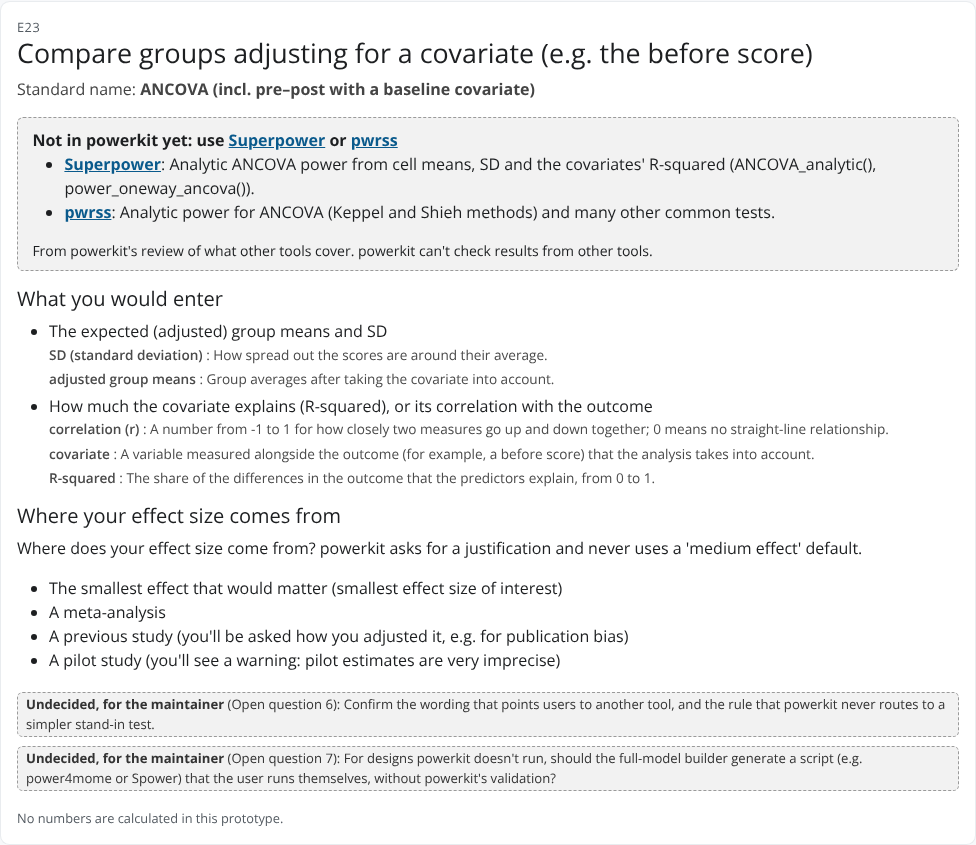
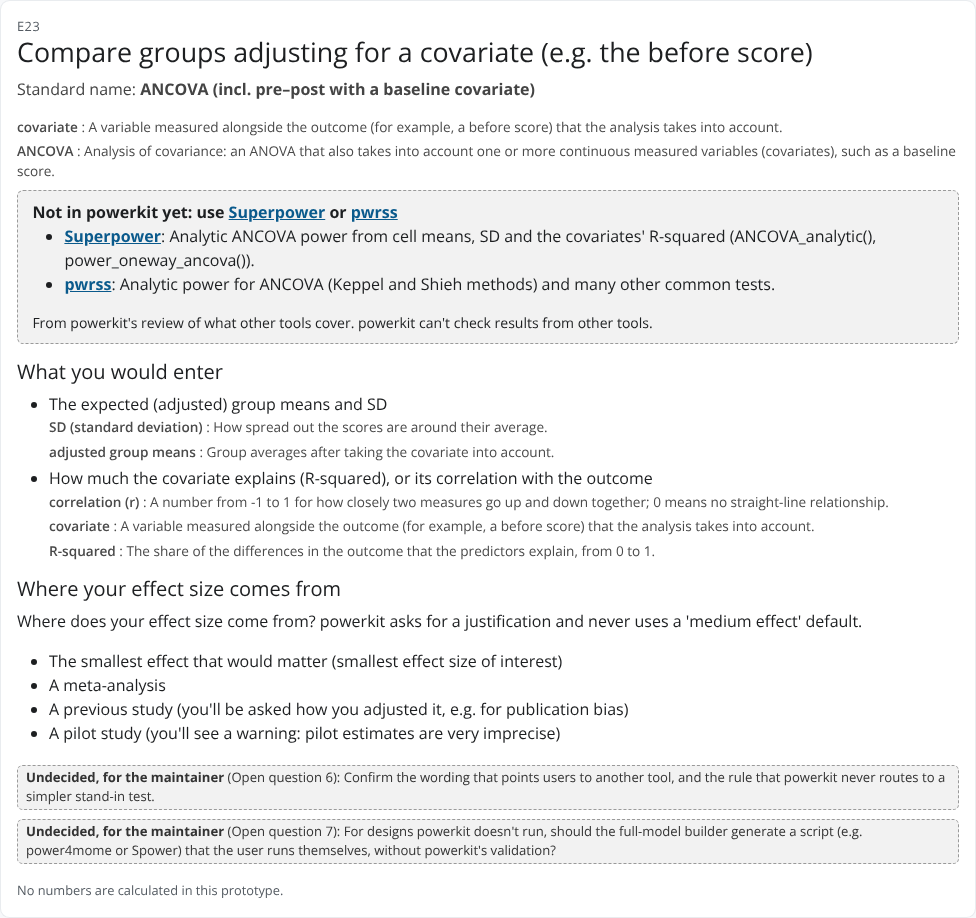
Sourced hints for standard names and backend lines; "Exact (analytic)" flagged; walkthroughs re-run
- 34 new glossary terms (omnibus, TOST, ANOVA, continuity correction,
  McNemar's test, Monte Carlo CI, ANOVA_exact(), ...), each written from
  an opened source and recorded in card-sources.md; shown once per card
  beside the standard name or backend line.
- Existing patterns fixed: "factor" no longer matches "Bayes factor";
  "repeated-measures" now matches.
- card-sources.md: E7/E8's "Exact (analytic)" marked contradicted
  (Superpower describes ANOVA_exact() as simulating one exact data set);
  card unchanged; judgement-calls.md entry A9.
- Walkthroughs re-run: 183 route runs reached their recorded end points;
  screenshots refreshed. axe-core: no violations.

Claude-Session: https://claude.ai/code/session_0186LoVeMuU2zgPinR2ZK71p

Changed region(s): [[0.0, 0.0308, 0.9836, 0.9846]]

diff --git a/docs/card-sources.md b/docs/card-sources.md
@@ -31,13 +31,14 @@ cites `coverage.md`, that page's own source tags ([Sp], [SP], [p4m], [IP],
 first-hand. Sources outside the repository are cited only if they were
 opened and read on 16 October 2026; nothing is cited from memory.
 
-**Counts:** contradicted: 1, candidate, not verified: 1, partly sourced: 20, sourced: 122, no claim: 1
+**Counts:** contradicted: 2, candidate, not verified: 1, partly sourced: 24, sourced: 151, no claim: 1
 
 ## Contradictions
 
 An opened source says something different from the card. The cards are unchanged.
 
 - **E45, Status:** No ready-made tool (Many measurements over time: segmented regression or interrupted time series) **Contradicts the card for a known breakpoint.** PITS (on CRAN since 30 June 2026) "Provides tools for estimating the statistical power of Interrupted Time Series (ITS) designs": `calculate_power()` simulates a segmented regression with a level change, a slope change and AR(1) autocorrelation (`rho` in [0, 1)), with the breakpoint fixed by `n_pre`. Not covered by PITS: an estimated breakpoint, and negative autocorrelation. PITS was not run or validated here.
+- **E7, E8, Closing question Q-test:** Exact (analytic) or simulation. The choice between the two methods is sourced. **The word "analytic" is not:** Superpower says `ANOVA_exact()` "Simulates an exact dataset (mu, sd, and r represent empirical, not population, mean and covariance matrix)" and runs a single ANOVA on it; Superpower uses "Analytic power calculation" for other functions (`power_oneway_between()` and others). The same label is the cards' "Default method: Exact (analytic)". Card unchanged.
 
 ## Claims and sources
 
@@ -143,7 +144,7 @@ An opened source says something different from the card. The cards are unchanged
 | All cards with a justification prompt | Where your effect size comes from | A pilot study: you'll see a warning, because pilot estimates are very imprecise | docs/decisions.md (pilot_study gives a warning). Candidate: Albers and Lakens (2018) | Reference given in Superpower's `mu_from_ES` help, "References" | The warning itself is recorded. The reason (pilot estimates are imprecise) is likely supported by Albers and Lakens (2018), whose title says power analyses based on pilot data are biased, but the paper wasn't opened. | candidate, not verified |
 | Not-in-powerkit cards | Status | No ready-made tool: options are a custom simulation in R (e.g. Spower) or advice from a statistician | coverage.md (Spower as a general engine); maintainer's wording | — | — | sourced |
 | E2 | Closing question Q-test | Student's or Welch's t-test. | decision-tree.md, table 2.2 (Q-test; decision D7) | — | — | sourced |
-| E7, E8 | Closing question Q-test | Exact (analytic) or simulation. | decision-tree.md, table 2.2 (Q-test); engine (options.method) | — | — | sourced |
+| E7, E8 | Closing question Q-test | Exact (analytic) or simulation. | decision-tree.md, table 2.2 (Q-test); engine (options.method); Superpower 0.2.4.1 help `ANOVA_exact` and vignette "Introduction to Superpower" | `ANOVA_exact` "Description"; vignette, "The ANOVA_exact function" | The choice between the two methods is sourced. **The word "analytic" is not:** Superpower says `ANOVA_exact()` "Simulates an exact dataset (mu, sd, and r represent empirical, not population, mean and covariance matrix)" and runs a single ANOVA on it; Superpower uses "Analytic power calculation" for other functions (`power_oneway_between()` and others). The same label is the cards' "Default method: Exact (analytic)". Card unchanged. | contradicted |
 | Cards with closing questions | Closing question Q-goal | The smallest detectable effect isn't available for this design yet. Observed power (from the study's own result) is not offered. | decision-tree.md, table 2.2 (Q-goal row); engine (sensitivity for the 2 x 2 designs) | — | — | sourced |
 | Cards with closing questions | Closing question Q-goal | All three are available for this design. Observed power (from the study's own result) is not offered. | decision-tree.md, table 2.2 (Q-goal row); engine (sensitivity for the 2 x 2 designs) | — | — | sourced |
 | Cards using the term | Hint: Cohen's d | A difference between two averages, measured in standard deviations: 0.5 means the averages are half a standard deviation apart. | pwr; psych (see Sources opened) | `pwr.t.test`, argument `d`; `cohen.d`, "Details" | "difference between the means divided by the pooled standard deviation". The 0.5 example follows from this. | sourced |
@@ -188,12 +189,47 @@ An opened source says something different from the card. The cards are unchanged
 | Cards using the term | Hint: confidence interval (CI) | A range of plausible values for an effect, estimated from the data. | UCLA t-test output (see Sources opened) | Item "k. 95% Confidence Interval of the Difference" | "specifies a range of values within which the unknown population parameter, in this case the mean, may lie". | sourced |
 | Cards using the term | Hint: model parameters | The numbers that define a model, such as the strength of each path. | UCLA CFA in R (see Sources opened) | The factor analysis model, before "Known values, parameters, and degrees of freedom" | "each parameter, defined as a term in the model to be estimated", including the paths. | sourced |
 | Cards using the term | Hint: prior | The range of effect sizes you consider plausible before seeing the data, written as a distribution. | Hmisc gbayes (see Sources opened) | "Description" (`gbayes2`) and argument `prior` | Power "averaged over a prior distribution for the unknown treatment effect". The words "plausible" and "before seeing the data" aren't in the source (it mentions a prior "obtained using pilot data"). **Detail:** the page separates a prior used only to average power from one used to form the test or credible interval; the hint doesn't say which. | partly sourced |
+| Cards using the term | Hint: omnibus test | A single overall test of whether there are any differences among all the groups or conditions at once; it doesn't say which ones differ. | UCLA OARC: Introduction to Mediation Models with the PROCESS Macro in SPSS; semTools 0.5.9 tukeySEM help — https://stats.oarc.ucla.edu/other/mult-pkg/seminars/spss-process/; semTools ?tukeySEM | Part 5 of the output (multi-category X); tukeySEM Details | UCLA supports 'overall test'; semTools supports 'across three or more groups' and that which means differ is a separate follow-up question. | sourced |
+| Cards using the term | Hint: ANOVA | Analysis of variance: a test of whether the average outcome differs across the levels of one or more factors. | UCLA OARC: What statistical analysis should I use? (SPSS) — https://stats.oarc.ucla.edu/spss/whatstat/what-statistical-analysis-should-i-usestatistical-analyses-using-spss/#1anova | One-way ANOVA; Factorial ANOVA | Factorial ANOVA ('two or more categorical independent variables') supports 'one or more factors'. Pattern does not fire inside ANOVA_exact()/ANOVA_power() (underscore is a word character). | sourced |
+| Cards using the term | Hint: main effect | The effect of one factor averaged over the levels of the other factor or factors. | Superpower 0.2.4.1 vignette: More ANOVA designs (more_anova_designs) — https://cran.r-project.org/web/packages/Superpower/vignettes/more_anova_designs.html | 2x2 interaction section |  | sourced |
+| Cards using the term | Hint: between-participants and within-participants | Between-participants means different people take part at each level of a factor; within-participants means the same people take part at every level. | Superpower 0.2.4.1 vignettes: intro_to_superpower; more_anova_designs — https://cran.r-project.org/web/packages/Superpower/vignettes/intro_to_superpower.html; https://cran.r-project.org/web/packages/Superpower/vignettes/more_anova_designs.html | intro: ANOVA_power example (2*2 mixed design); more: Power in Repeated Measures ANOVA | '40 per between condition, 80 in total' shows different people per level. Same idea as the existing 'between factor and within factor' hint, but that pattern doesn't match the hyphenated card wording. | sourced |
+| Cards using the term | Hint: mixed design | A design with at least one factor that compares different people (between-participants) and at least one that measures the same people repeatedly … | Superpower 0.2.4.1 vignette: intro_to_superpower — https://cran.r-project.org/web/packages/Superpower/vignettes/intro_to_superpower.html | The ANOVA_power function (example) | Pattern highlights only 'mixed' so it doesn't overlap the ANOVA hint. Note 'mixed' on E41-type cards ('mixed models') would need a different hint; the lookahead keeps it to 'mixed ANOVA'. | sourced |
+| Cards using the term | Hint: ANCOVA | Analysis of covariance: an ANOVA that also takes into account one or more continuous measured variables (covariates), such as a baseline score. | UCLA OARC: What statistical analysis should I use? (SPSS) — https://stats.oarc.ucla.edu/spss/whatstat/what-statistical-analysis-should-i-usestatistical-analyses-using-spss/ | Analysis of covariance | 'such as a baseline score' is the card's own example (E23 'pre-post with a baseline covariate'), not the source's; the UCLA example adds a reading score. | sourced |
+| Cards using the term | Hint: planned contrast | One specific comparison of group averages (for example, the average of groups 1 and 2 against group 3), planned in advance rather than chosen after … | UCLA OARC: Everything you always wanted to know about contrasts (Stata FAQ); Superpower 0.2.4.1 vignette emmeans_power — https://stats.oarc.ucla.edu/stata/faq/everything-you-always-wanted-to-know-about-contrasts-but-were-afraid-to-ask/; https://cran.r-project.org/web/packages/Superpower/vignettes/emmeans_power.html | What is a contrast?; emmeans_power introduction | What a contrast is: fully sourced. 'Planned in advance rather than after seeing results' rests only on Superpower's contrast between 'planned contrasts or post-hoc comparisons'; no opened source defines 'planned' explicitly. Could drop that clause. | partly sourced |
+| Cards using the term | Hint: z test (two proportions) | A test of whether the share of 'yes' differs between two groups, based on the normal (bell-curve) approximation to the counts. | rstatix 1.1.0 reference manual (prop_test); EnvStats propTestPower help — https://cran.r-project.org/web/packages/rstatix/refman/rstatix.html (prop_test); EnvStats ?propTestPower | prop_test Functions; propTestPower Details (Two-Sample Case) | Links the card's 'z test' to the prop.test() that Spower's p_prop.test() calls. 'bell-curve' is a plain-English gloss of 'normal'. | sourced |
+| Cards using the term | Hint: continuity correction | A slight adjustment to the normal approximation for counts that moves the observed difference toward zero before testing. | DescTools 0.99.60 reference manual (BinomDiffCI); Spower 0.6.4 vignette gpower_examples; R stats 4.5.3 prop.test help — https://cran.r-project.org/web/packages/DescTools/refman/DescTools.html (BinomDiffCI); https://cran.r-project.org/web/packages/Spower/vignettes/gpower_examples.html; stats ?prop.test | BinomDiffCI Details; McNemar example; prop.test Details | Card wording is right: Spower's p_prop.test() and stats::prop.test() default to correct = TRUE, so 'no continuity correction' is a departure; it is already recorded in docs/conventions.md (Departure 5). The Spower vignette adds 'though in general this is not recommended in practice' - worth knowing since the card turns it off. If 'gives a little more power' reads as advice, drop that clause. | sourced |
+| Cards using the term | Hint: chi-square test of independence | A test of whether two categorical variables (for example, group and a yes/no answer) are related, using a table of counts. | UCLA OARC: What statistical analysis should I use? (SPSS); R stats 4.5.3 chisq.test help — https://stats.oarc.ucla.edu/spss/whatstat/what-statistical-analysis-should-i-usestatistical-analyses-using-spss/#chisq; stats ?chisq.test | Chi-square test; chisq.test Details | chisq.test: 'Pearson's chi-squared test ... in a 2-dimensional contingency table' supports 'table of counts'. | sourced |
+| Cards using the term | Hint: McNemar's test | A test of whether the share of 'yes' answers differs between two yes/no measurements on the same people (or on matched pairs). | rstatix 1.1.0 reference manual (mcnemar_test); UCLA OARC: What statistical analysis should I use? (SPSS) — https://cran.r-project.org/web/packages/rstatix/refman/rstatix.html (mcnemar_test); https://stats.oarc.ucla.edu/spss/whatstat/what-statistical-analysis-should-i-usestatistical-analyses-using-spss/#mcnemar | mcnemar_test Functions; McNemar test |  | sourced |
+| Cards using the term | Hint: Cochran's Q | An extension of McNemar's test to three or more yes/no measurements on the same people. | rstatix 1.1.0 reference manual (cochran_qtest) — https://cran.r-project.org/web/packages/rstatix/refman/rstatix.html (cochran_qtest) | cochran_qtest Description |  | sourced |
+| Cards using the term | Hint: logistic regression | A regression for a yes/no outcome: it models the log of the odds of 'yes' from the predictors. | UCLA OARC: Logit Regression \| R Data Analysis Examples — https://stats.oarc.ucla.edu/r/dae/logit-regression/ | Introduction | Relies on the existing 'odds ratio' hint for what odds are. Also matches 'factorial logistic regression' (E47). | sourced |
+| Cards using the term | Hint: Poisson or negative binomial | Regressions for count outcomes (how many times something happens); Poisson assumes the counts vary as much as their average, while negative binomial … | UCLA OARC: Poisson Regression and Negative Binomial Regression \| R Data Analysis Examples — https://stats.oarc.ucla.edu/r/dae/poisson-regression/; https://stats.oarc.ucla.edu/r/dae/negative-binomial-regression/ | Introductions; Negative binomial regression (analysis methods list) | u_pois.txt line 128 supports 'the variance equals the mean'; 'vary as much as their average' is the plain-English wording of that. | sourced |
+| Cards using the term | Hint: ordinal outcome | An outcome whose categories have a natural order (for example, never, sometimes, often) but where the steps between neighbouring categories need not … | UCLA OARC: Ordinal Logistic Regression \| R Data Analysis Examples; UCLA OARC: What statistical analysis should I use? (SPSS) — https://stats.oarc.ucla.edu/r/dae/ordinal-logistic-regression/; https://stats.oarc.ucla.edu/spss/whatstat/what-statistical-analysis-should-i-usestatistical-analyses-using-spss/#ologit | Examples of ordinal logistic regression; Ordered logistic regression | The example categories are illustrative (the source uses soda sizes, whose names hit the banned-words test). Also matches 'ordinal' in other card text, which carries the same meaning. | sourced |
+| Cards using the term | Hint: PROCESS model number | PROCESS is Andrew Hayes's tool for mediation and moderation analysis; each model number picks one set arrangement of predictor, mediators and … | UCLA OARC: Introduction to Mediation Models with the PROCESS Macro in SPSS — https://stats.oarc.ucla.edu/other/mult-pkg/seminars/spss-process/ | Simple mediation model; Parallel mediation; Optional subcommands | The seminar names Hayes (2022), 3rd edition, as the source of the numbering. Pattern covers 'PROCESS model 4' and 'PROCESS models 8, 58, 59'. | sourced |
+| Cards using the term | Hint: index of moderated mediation | How much the indirect effect (X to mediator to outcome) changes when the moderator goes up by one unit. | manymome 0.3.7 help: index_of_mome (used by power4mome 0.2.1 test_index_of_mome()) — manymome ?index_of_mome | Details | power4mome's test_index_of_mome() passes the fit to manymome::index_of_mome() (power4mome help, 'fit' argument). manymome: it applies to models with one (and only one) moderated path, which fits E13/E14 (models 7 and 14). | sourced |
+| Cards using the term | Hint: Monte Carlo CI | A confidence interval built by simulating many sets of the model's estimates from their estimated uncertainty, computing the effect for each set, … | manymome 0.3.7 vignette: Generate Monte Carlo Estimates (do_mc) — https://cran.r-project.org/web/packages/manymome/vignettes/do_mc.html | 2 How It Works | power4mome's default ci_type is 'mc' and test_index_of_mome(mc_ci = TRUE) forms Monte Carlo CIs (power4mome help). Pattern matches only 'Monte Carlo' when followed by 'CI', so the existing CI hint still covers 'CI' and the existing 'Monte Carlo draws' pattern is untouched. | sourced |
+| Cards using the term | Hint: ANOVA_exact() (exact) | Superpower's quick method: it builds one data set whose means, standard deviations and correlations exactly match the ones you enter, analyses it … | Superpower 0.2.4.1 help ANOVA_exact; vignette intro_to_superpower — Superpower ?ANOVA_exact; https://cran.r-project.org/web/packages/Superpower/vignettes/intro_to_superpower.html | ANOVA_exact Description/Value; vignette 'The ANOVA_exact function' | Superpower: `ANOVA_exact()` "Simulates an exact dataset (mu, sd, and r represent empirical, not population, mean and covariance matrix)" and analyses it once; the vignette: it "simulates one dataset that exactly matches the desired properties". The hint follows this. **See the E7 and E8 rows:** the cards call this method "Exact (analytic)"; Superpower keeps "analytic" for other functions (for example `power_oneway_between()`, "Analytic power calculation"). | sourced |
+| Cards using the term | Hint: simulation (ANOVA_power()) | Estimating power by generating many random data sets from the design and counting how often the test comes out significant. | Superpower 0.2.4.1 vignette intro_to_superpower; help ANOVA_power — https://cran.r-project.org/web/packages/Superpower/vignettes/intro_to_superpower.html; Superpower ?ANOVA_power | Introduction; The ANOVA_power function | 'counting how often the test is significant' - ANOVA_power returns power as the share of significant simulated results; the vignette's quoted lines say 'simulates data nsims times using a specified alpha level'. Pattern is broad: it would also fire on any future backend line with 'simulation'; the meaning is the same. | sourced |
+| Cards using the term | Hint: brackets N (power_interaction_r2()) | InteractionPoweR's power_interaction_r2() is a quick formula-based power calculation; powerkit uses it only to narrow down the range of sample sizes … | InteractionPoweR 0.2.4 help: power_interaction_r2, power_interaction; powerkit engine/R/backend-interactionpower.R — InteractionPoweR ?power_interaction_r2; ?power_interaction; engine/R/backend-interactionpower.R line 7 | Titles/Descriptions | That r2 is analytic and power_interaction() simulates: sourced from the package. That powerkit uses r2 only to bracket N is powerkit's own design (engine comment, search_n.R), not a package statement. Note the help says power_interaction_r2() is valid only for continuous, normally distributed variables, so it shouldn't bracket E15 (binary X/W via k.x1 = 2) if that card ever reuses this route. | partly sourced |
+| Cards using the term | Hint: k.x1 / k.x2 = 2 | Settings that tell InteractionPoweR's simulation to give x1 or x2 only two possible values, so it becomes a yes/no variable. | InteractionPoweR 0.2.4 help: power_interaction, norm2ordinal — InteractionPoweR ?power_interaction; ?norm2ordinal | Arguments | norm2ordinal: 'Transforms a vector with a normal distribution to a binomial distribution with two values' - i.e. the variable is simulated as continuous and then cut to two values. | sourced |
+| Cards using the term | Hint: rbinary_rs() (x_fun) | Tells power4mome to generate X as a yes/no variable (0 or 1, with a chosen chance of 1) instead of from a normal distribution; the 0/1 values are … | power4mome 0.2.1 help: rbinary_rs, power4test — power4mome ?rbinary_rs; ?power4test (x_fun) | rbinary_rs Description/Details; power4test Arguments | Flag: the generated X has two values but is rescaled (pmean/psd), not left as 0/1, so path sizes for X are per rescaled unit; a card or form that says X is coded 0/1 would not match this. | sourced |
+| Cards using the term | Hint: multilevel or cluster design | A design in which people are grouped (for example, pupils within classes, or patients within doctors), so people in the same group tend to be more … | UCLA OARC: Introduction to Linear Mixed Models — https://stats.oarc.ucla.edu/other/mult-pkg/introduction-to-linear-mixed-models/ | Introduction | Page: 'Linear mixed models (also called multilevel models)'. Also matches 'multilevel correlation' in E41, where the grouping is repeated occasions within people; the hint still reads correctly there. | sourced |
+| Cards using the term | Hint: growth curves | Models of how each person's scores change over repeated occasions (their trajectory, for example a straight line up or down), and of the average … | UCLA OARC: Latent Growth Models (LGM) and Measurement Invariance with R in lavaan; lavaan 0.7.2 help growth — https://stats.oarc.ucla.edu/r/seminars/lgm/; lavaan ?growth | Introduction; The latent growth model (LGM) | Line 83: 'These trajectories in most cases are linear, but can encompass other trajectories such as a quadratic slope'. lavaan's growth() is titled 'Fit Growth Curve Models'. | sourced |
+| Cards using the term | Hint: cross-lagged panel | A model for two measures (X and Y) recorded at several time points that estimates how each one predicts the other at the next time point, alongside … | semPower 2.2.0 reference manual: semPower.powerCLPM — https://cran.r-project.org/web/packages/semPower/refman/semPower.html (semPower.powerCLPM) | semPower.powerCLPM Details | The card's E35 says 'three or more occasions'; semPower's CLPM allows two or more waves - not a conflict, just the card's routing scope. | sourced |
+| Cards using the term | Hint: experience sampling | An intensive longitudinal design in which participants answer a questionnaire each time they are prompted (a 'beep'), several times within a day. | esmtools reference manual (CRAN) — https://cran.r-project.org/web/packages/esmtools/refman/esmtools.html | esmtools data and function documentation | Pieced together from argument and data descriptions (the ESM questionnaire, the beep sent to the participant, the beep number within a day), not from a definition. esmtools 1.0.1 (CRAN page). | partly sourced |
+| Cards using the term | Hint: CFA | Confirmatory factor analysis: a model in which answers to many questionnaire items are explained by fewer underlying, unobserved traits (factors) … | UCLA OARC: Confirmatory Factor Analysis (CFA) in R with lavaan — https://stats.oarc.ucla.edu/r/seminars/rcfa/ | Introduction / The factor analysis model | Line 206 (one-factor model 'will assume that the covariance among items is due to a single common factor') supports 'that you specify'. Note 'factor' here is a latent trait, not the existing glossary's experimental factor; the existing \bfactors?\b pattern doesn't fire on 'CFA'. | sourced |
+| Cards using the term | Hint: SEM and model fit | Structural equation modelling: a family of models that combines regressions among variables with unobserved (latent) variables measured by several … | UCLA OARC: Introduction to Structural Equation Modeling (SEM) in R with lavaan — https://stats.oarc.ucla.edu/r/seminars/rsem/ | Introduction; Model Fit Statistics | Regex alternation tries 'SEM model fit' first so the whole phrase is one highlight on E37. | sourced |
+| Cards using the term | Hint: measurement invariance | Whether a questionnaire measures the same underlying trait in the same way in different groups (or on different occasions), checked by requiring … | UCLA OARC: How can I check measurement invariance using the sem command? (Stata FAQ); semPower 2.2.0 reference manual: semPower.powerMI — https://stats.oarc.ucla.edu/stata/faq/how-can-i-check-measurement-invariance-using-the-sem-command-stata-12/; https://cran.r-project.org/web/packages/semPower/refman/semPower.html (semPower.powerMI) | Introduction; semPower.powerMI Details | 'or on different occasions': semPower.powerLI covers longitudinal measurement invariance (line 3712). semPower: 'metric': all loadings are restricted to equality. | sourced |
+| Cards using the term | Hint: equivalence test (TOST) | A test that aims to show there is no meaningful effect: two one-sided tests (TOST) check that the effect lies above the lower equivalence bound and … | TOSTER 0.8.6 vignettes: An Introduction to t_TOST; Introduction to Equivalence Testing with TOSTER — https://cran.r-project.org/web/packages/TOSTER/vignettes/IntroTOSTt.html; https://cran.r-project.org/web/packages/TOSTER/vignettes/IntroductionToTOSTER.html | Introduction to TOST; TOST procedure | Uses the existing 'equivalence bounds' hint for the bounds; patterns don't overlap. | sourced |
+| Cards using the term | Hint: minimum-effect test | The reverse of an equivalence test: it aims to show that an effect goes beyond a chosen minimal threshold. | TOSTER 0.8.6 vignette: An Introduction to t_TOST — https://cran.r-project.org/web/packages/TOSTER/vignettes/IntroTOSTt.html | Beyond Equivalence: Minimal Effects Testing | NAME MISMATCH (minor): the card says 'minimum-effect test'; TOSTER (the established tool) calls it 'minimal effect test(ing)' (MET, hypothesis = "MET"). Consider the card using TOSTER's term, or both. | sourced |
+| Cards using the term | Hint: precision planning | Choosing the sample size so that the confidence interval around the estimate is expected to come out no wider than a target width. | Spower 0.6.4 vignette: Logical vectors, Bayesian power analyses and ROPEs (SpowerIntro_logicals) — https://cran.r-project.org/web/packages/Spower/vignettes/SpowerIntro_logicals.html | Precision criterion | Spower shows a CI-width criterion joined with significance; it doesn't use the phrase 'precision planning' or describe width-only planning. 'expected to' (on average/with given assurance) is my gloss; the source's example targets power to get a narrow CI. | partly sourced |
+| Cards using the term | Hint: Bayes factor | A ratio that says how strongly the data support one hypothesis compared with a competing one (often 'no effect'), used instead of a p-value. | Spower 0.6.4 vignette: Logical vectors, Bayesian power analyses and ROPEs (SpowerIntro_logicals) — https://cran.r-project.org/web/packages/Spower/vignettes/SpowerIntro_logicals.html | Bayes Factors | COLLISION: the existing 'factor and levels' pattern \bfactors?\b also matches 'factor' in 'Bayes factor' (E-bayes) and would gloss it as 'something you vary'. Suggest the existing pattern become (?<!Bayes )\bfactors?\b. | sourced |
 
 ## Still to check
 
 Claims that are not fully sourced, for the maintainer to source, reword or remove:
 
 - **E45, Status** (contradicted): No ready-made tool (Many measurements over time: segmented regression or interrupted time series)
+- **E7, E8, Closing question Q-test** (contradicted): Exact (analytic) or simulation.
 - **All cards with a justification prompt, Where your effect size comes from** (candidate, not verified): A pilot study: you'll see a warning, because pilot estimates are very imprecise
 - **E44, Card text** (partly sourced): powerkit doesn't cover data from pairs of people whose scores are related (dyadic data), such as couples or a parent and child. Treating the two …
 - **E45, Card point** (partly sourced): With a breakpoint that is estimated from the data, a custom simulation is needed.
@@ -215,6 +251,10 @@ Claims that are not fully sourced, for the maintainer to source, reword or remov
 - **Cards using the term, Hint: level and slope** (partly sourced): The level is how high the trend is; the slope is how fast it rises or falls.
 - **Cards using the term, Hint: autocorrelation** (partly sourced): How much each measurement depends on the ones just before it.
 - **Cards using the term, Hint: prior** (partly sourced): The range of effect sizes you consider plausible before seeing the data, written as a distribution.
+- **Cards using the term, Hint: planned contrast** (partly sourced): One specific comparison of group averages (for example, the average of groups 1 and 2 against group 3), planned in advance rather than chosen after …
+- **Cards using the term, Hint: brackets N (power_interaction_r2())** (partly sourced): InteractionPoweR's power_interaction_r2() is a quick formula-based power calculation; powerkit uses it only to narrow down the range of sample sizes …
+- **Cards using the term, Hint: experience sampling** (partly sourced): An intensive longitudinal design in which participants answer a questionnaire each time they are prompted (a 'beep'), several times within a day.
+- **Cards using the term, Hint: precision planning** (partly sourced): Choosing the sample size so that the confidence interval around the estimate is expected to come out no wider than a target width.
 
 ## Sources opened
 

diff --git a/docs/glossary.md b/docs/glossary.md
@@ -27,9 +27,9 @@ only partly supported, and the details are listed there.
 | SD units | Differences expressed in standard deviations rather than in the outcome's own units (raw). | E7 |
 | Student's or Welch's test | Two versions of the t-test: Student's assumes the two groups' scores are equally spread out; Welch's doesn't. | E2 |
 | correlation (r) | A number from -1 to 1 for how closely two measures go up and down together; 0 means no straight-line relationship. | E4, E8, E9, E11, E15, E18, E20, E21, E23, E31, E41 |
-| repeated measurements | The same people measured more than once (for example, before and after, or in each condition); their scores on different occasions usually go together. | E8, E18, E20 |
+| repeated measurements | The same people measured more than once (for example, before and after, or in each condition); their scores on different occasions usually go together. | E8, E18, E20, E41 |
 | cell means | The expected average in each combination of the factors, such as praise with a hard task (each combination is a 'cell'). | E7, E8, E20, E21, E22 |
-| factor and levels | A factor is something you vary or compare (for example, feedback); its levels are its versions (for example, praise and none). | E7, E8, E47, E-bayes |
+| factor and levels | A factor is something you vary or compare (for example, feedback); its levels are its versions (for example, praise and none). | E7, E8, E47 |
 | between factor and within factor | A between factor has different people at each level; a within factor has the same people at every level. | E8 |
 | interaction | Whether the effect of one factor or variable depends on the level of another. | E7, E8, E9, E13, E14, E15, E31 |
 | reliability | How consistently a measure gives the same result; 1 means no measurement error. | E9, E31 |
@@ -62,4 +62,38 @@ only partly supported, and the details are listed there.
 | confidence interval (CI) | A range of plausible values for an effect, estimated from the data. | E10 |
 | model parameters | The numbers that define a model, such as the strength of each path. | E37 |
 | prior | The range of effect sizes you consider plausible before seeing the data, written as a distribution. | E-bayes |
+| omnibus test | A single overall test of whether there are any differences among all the groups or conditions at once; it doesn't say which ones differ. | E18 |
+| ANOVA | Analysis of variance: a test of whether the average outcome differs across the levels of one or more factors. | E7, E8, E18, E20, E21, E22 |
+| main effect | The effect of one factor averaged over the levels of the other factor or factors. | E7 |
+| between-participants and within-participants | Between-participants means different people take part at each level of a factor; within-participants means the same people take part at every level. | E7, E20 |
+| mixed design | A design with at least one factor that compares different people (between-participants) and at least one that measures the same people repeatedly (within-participants), such as group × time. | E8 |
+| ANCOVA | Analysis of covariance: an ANOVA that also takes into account one or more continuous measured variables (covariates), such as a baseline score. | E23 |
+| planned contrast | One specific comparison of group averages (for example, the average of groups 1 and 2 against group 3), planned in advance rather than chosen after seeing the results. | E19 |
+| z test (two proportions) | A test of whether the share of 'yes' differs between two groups, based on the normal (bell-curve) approximation to the counts. | E5 |
+| continuity correction | A slight adjustment to the normal approximation for counts that moves the observed difference toward zero before testing. | E5 |
+| chi-square test of independence | A test of whether two categorical variables (for example, group and a yes/no answer) are related, using a table of counts. | E6 |
+| McNemar's test | A test of whether the share of 'yes' answers differs between two yes/no measurements on the same people (or on matched pairs). | E26 |
+| Cochran's Q | An extension of McNemar's test to three or more yes/no measurements on the same people. | E26 |
+| logistic regression | A regression for a yes/no outcome: it models the log of the odds of 'yes' from the predictors. | E27, E47 |
+| Poisson or negative binomial | Regressions for count outcomes (how many times something happens); Poisson assumes the counts vary as much as their average, while negative binomial allows them to vary more than that. | E28 |
+| ordinal outcome | An outcome whose categories have a natural order (for example, never, sometimes, often) but where the steps between neighbouring categories need not be equal. | E29 |
+| PROCESS model number | PROCESS is Andrew Hayes's tool for mediation and moderation analysis; each model number picks one set arrangement of predictor, mediators and moderators, as numbered in Appendix A of Hayes's book (model 4 is mediation). | E10, E11, E12, E13, E14, E38 |
+| index of moderated mediation | How much the indirect effect (X to mediator to outcome) changes when the moderator goes up by one unit. | E13 |
+| Monte Carlo CI | A confidence interval built by simulating many sets of the model's estimates from their estimated uncertainty, computing the effect for each set, and keeping the middle 95% of the results. | E10 |
+| ANOVA_exact() (exact) | Superpower's quick method: it builds one data set whose means, standard deviations and correlations exactly match the ones you enter, analyses it once, and works out power from that result instead of simulating many data sets. | E7, E8 |
+| simulation (ANOVA_power()) | Estimating power by generating many random data sets from the design and counting how often the test comes out significant. | E1, E2, E3, E4, E5, E6, E7, E9, E10, E11, E12, E13, E14, E15, E16, E17 |
+| brackets N (power_interaction_r2()) | InteractionPoweR's power_interaction_r2() is a quick formula-based power calculation; powerkit uses it only to narrow down the range of sample sizes to search, and the reported power comes from the simulation in power_interaction(). | E9 |
+| k.x1 / k.x2 = 2 | Settings that tell InteractionPoweR's simulation to give x1 or x2 only two possible values, so it becomes a yes/no variable. | E15 |
+| rbinary_rs() (x_fun) | Tells power4mome to generate X as a yes/no variable (0 or 1, with a chosen chance of 1) instead of from a normal distribution; the 0/1 values are then rescaled to a chosen mean and standard deviation. | E16, E17 |
+| multilevel or cluster design | A design in which people are grouped (for example, pupils within classes, or patients within doctors), so people in the same group tend to be more alike than people in different groups. | E34, E41 |
+| growth curves | Models of how each person's scores change over repeated occasions (their trajectory, for example a straight line up or down), and of the average trajectory across people. | E35 |
+| cross-lagged panel | A model for two measures (X and Y) recorded at several time points that estimates how each one predicts the other at the next time point, alongside how stable each is over time. | E35 |
+| experience sampling | An intensive longitudinal design in which participants answer a questionnaire each time they are prompted (a 'beep'), several times within a day. | E35 |
+| CFA | Confirmatory factor analysis: a model in which answers to many questionnaire items are explained by fewer underlying, unobserved traits (factors) that you specify. | E37 |
+| SEM and model fit | Structural equation modelling: a family of models that combines regressions among variables with unobserved (latent) variables measured by several items; model fit is how closely the relationships the model implies match those in the data. | E37 |
+| measurement invariance | Whether a questionnaire measures the same underlying trait in the same way in different groups (or on different occasions), checked by requiring parts of the measurement model, such as item loadings, to be equal across them. | E37 |
+| equivalence test (TOST) | A test that aims to show there is no meaningful effect: two one-sided tests (TOST) check that the effect lies above the lower equivalence bound and below the upper one. | E36 |
+| minimum-effect test | The reverse of an equivalence test: it aims to show that an effect goes beyond a chosen minimal threshold. | E36 |
+| precision planning | Choosing the sample size so that the confidence interval around the estimate is expected to come out no wider than a target width. | E46 |
+| Bayes factor | A ratio that says how strongly the data support one hypothesis compared with a competing one (often 'no effect'), used instead of a p-value. | E-bayes |
 

diff --git a/docs/judgement-calls.md b/docs/judgement-calls.md
@@ -46,7 +46,7 @@ The statistical decisions phase 3b needs before coding are in
 
 ## Contents
 
-- [A. What the cards say](#a-what-the-cards-say): A1–A8
+- [A. What the cards say](#a-what-the-cards-say): A1–A9
 - [B. What the cards and forms ask](#b-what-the-cards-and-forms-ask): B1–B9
 - [C. Which card users reach](#c-which-card-users-reach): C1–C18
 - [D. The routes and the start screen](#d-the-routes-and-the-start-screen): D1–D7
@@ -296,6 +296,38 @@ The statistical decisions phase 3b needs before coding are in
 - **Knock-on effects:** ties to judgement call 3.2 (B2).
 - **Recorded in:** [`card-sources.md`](card-sources.md) (candidate, not
   verified). No setting.
+
+### A9. "Exact (analytic)" for Superpower's `ANOVA_exact()` (E7, E8)
+
+- **Question:** E7 and E8 give the default method as "Exact (analytic)",
+  and Q-test offers "Exact (analytic) or simulation". Superpower's
+  documentation doesn't call `ANOVA_exact()` analytic. Keep the label, or
+  reword it?
+- **Options:**
+  - keep "Exact (analytic)";
+  - use Superpower's own terms, for example "Exact data set" or "Exact
+    (one data set matching your inputs)";
+  - name the function only.
+- **What tools and sources do** (opened):
+  - Superpower 0.2.4.1, `ANOVA_exact`: "Simulates an exact dataset (mu,
+    sd, and r represent empirical, not population, mean and covariance
+    matrix)".
+  - The vignette: it "simulates one dataset that exactly matches the
+    desired properties" and runs a single ANOVA on it.
+  - Superpower uses "Analytic power calculation" for other functions, for
+    example `power_oneway_between()`.
+  - `conventions.md` describes the method in Superpower's terms.
+- **Who might disagree, and why:**
+  - "Analytic" signals to users that no random simulation error is
+    involved, which is true of the result.
+  - Others would keep to the package's own vocabulary, so that the card,
+    the methods paragraph and the package documentation agree.
+- **Knock-on effects:**
+  - The Q-test card note and the method line change together.
+  - The methods paragraph (phase 4) should use the same term.
+  - `card-sources.md` marks the claim "contradicted".
+- **Recorded in:** [`card-sources.md`](card-sources.md), "Contradictions".
+  No setting.
 
 ## B. What the cards and forms ask
 

diff --git a/docs/walkthroughs.md b/docs/walkthroughs.md
@@ -26,6 +26,16 @@ cover
 anything confusing, inconsistent between routes, or claiming more than the
 audit supports. No typos were found to fix.
 
+**Re-run after the judgement-calls PR (16 October 2026).** No end point
+changed. What the screenshots now show differently:
+- question IDs ("Question Q1") are hidden;
+- the answer chips are larger (at least 44 x 44 px);
+- hints also explain terms in standard names and backend lines (for
+  example omnibus, TOST, ANOVA);
+- E37 says IRT designs aren't covered;
+- E15 no longer asks about reliability (its card isn't in the
+  screenshots, because no walkthrough reaches it).
+
 **How this was produced.**
 - The examples and answers are in
   [`app/routing/walkthroughs/scenarios.json`](../app/routing/walkthroughs/scenarios.json).
